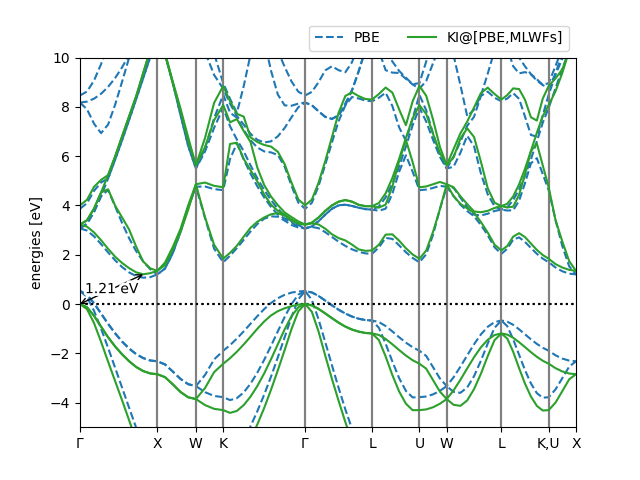
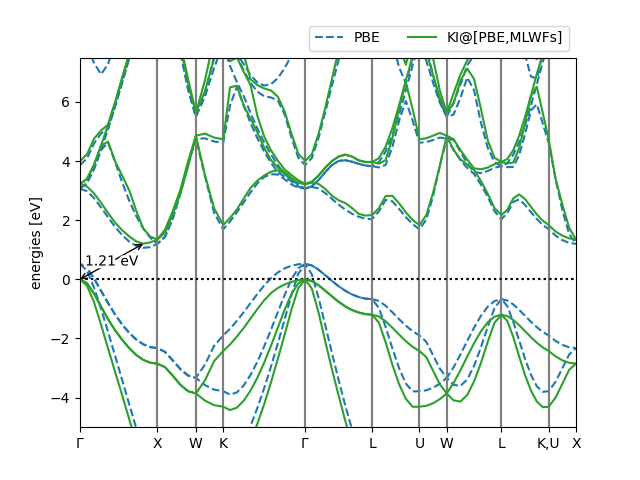
Updated si plot

diff --git a/si/plot.py b/si/plot.py
@@ -53,7 +53,7 @@ ax.text((x_cbm + x_vbm) / 2, (y_cbm + y_vbm) / 2,
 
 # Tweak the figure aesthetics
 ax.legend(loc='lower right', ncol=2, bbox_to_anchor=(1, 1))
-ax.set_ylim([-5, 10])
+ax.set_ylim([-5, 7.5])
 
 # Display or save the figure (uncomment as desired)
 plt.savefig('si_bandstructures.png')
